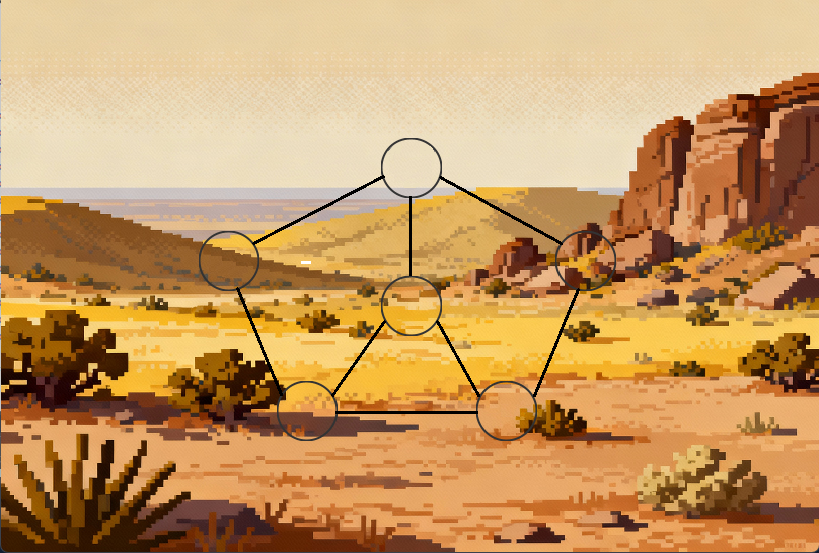
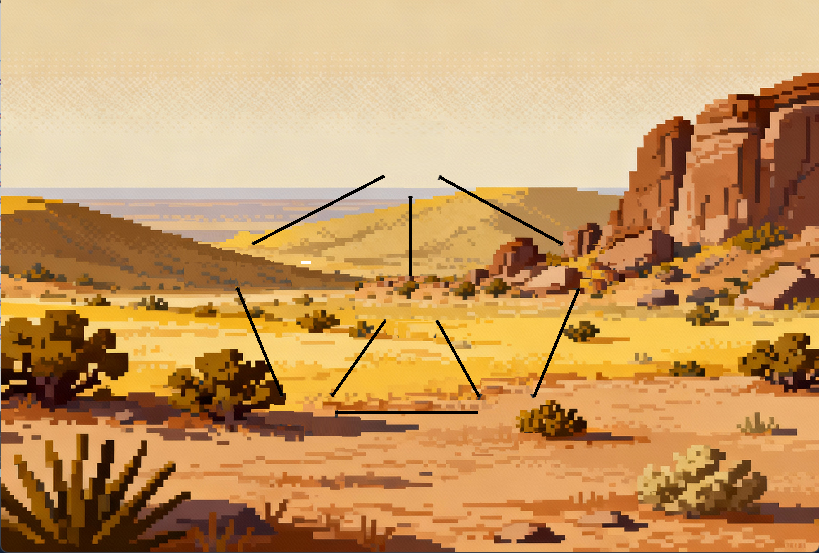
nem sei mais

diff --git a/src/trabalhopoo2/guis/TelaJogo.java b/src/trabalhopoo2/guis/TelaJogo.java
@@ -86,7 +86,6 @@ public class TelaJogo extends javax.swing.JFrame {
 
         configurarMenuBar();
         reposicionarAnimais();
-        tornarLabelsCirculares();
         configurarFontes();
 
         labelAnimalJogada = new JLabel();
@@ -577,15 +576,6 @@ public class TelaJogo extends javax.swing.JFrame {
         repaint();
     }
 
-    private void tornarLabelsCirculares() {
-        //configurarLabel(posicao0, Color.BLUE);
-        //configurarLabel(posicao1, Color.BLUE);
-        //configurarLabel(posicao2, Color.BLUE);
-        //configurarLabel(posicao3, Color.BLUE);
-        //configurarLabel(posicao4, Color.BLUE);
-        //configurarLabel(posicao5, Color.BLUE);
-    }
-
     private void configurarLabel(JLabel label, Color cor) {
         label.setPreferredSize(new Dimension(50, 50));
         label.setForeground(Color.blue);
@@ -713,15 +703,7 @@ public class TelaJogo extends javax.swing.JFrame {
             }
         }
     }
-    
-    
-    
-    
-    // Outros
-    private void setarTexto(int posicao, String nomeAnimal) {
-        labelsPosicoes.get(posicao).setText(nomeAnimal);
-    }
-
+ 
     private void configurarNomes() {
         JButton btnVoltar = new BtnDefault(24f, util.COR_FUNDO_BTN, "Voltar", new Dimension(250, 50));
 

diff --git a/src/trabalhopoo2/Tabuleiro.java b/src/trabalhopoo2/Tabuleiro.java
@@ -79,10 +79,6 @@ public class Tabuleiro {
         return posicoes;
     }
 
-    private void reposicionarAnimal(int posicaoDeDestino) {
-
-    }
-
     public boolean tentarMoverAnimal(int posicaoDesejada) {
         int indexPosicaoDoAnimal = -1;
         for (int i = 0; i <= 5; i++) {
